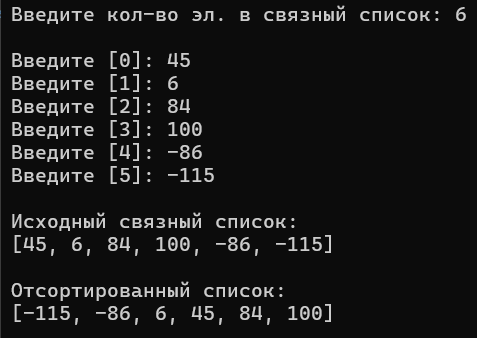
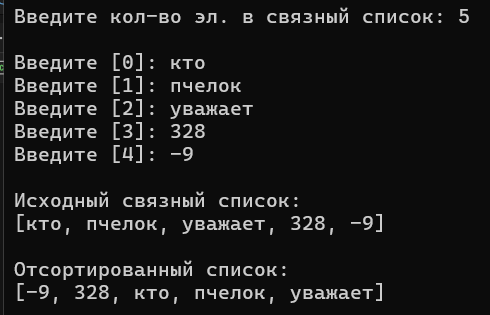
переделала методы для 1, 2 + отчет

Changed region(s): [[0.0, 0.0, 0.7925, 1.0], [0.499, 0.0, 0.9979, 0.0857]]

diff --git a/lab_4/part_1/Tasks15.cs b/lab_4/part_1/Tasks15.cs
@@ -1,94 +1,106 @@
 internal static class Tasks15
 {
-    public static bool ReplaceList
-        (List<int> List, List<int> List1, List<int> List2)
-    {
-        if (List1 == null || List1.Count == 0) return false;
 
-        int index = -1;
-        int j;
-        for (int i = 0; i <= List.Count - List1.Count; i++)
+    // должно возвращать список + должны быть не int  в списка а любые кроч переделать!!!!!!!!
+    public static List<T> ReplaceList<T>(
+    List<T> L, List<T> L1, List<T> L2)
+    {
+        if (L == null) return null;
+
+        List<T> rez = new List<T>(L);
+
+        if (L1 == null || L2 == null ||
+            L1.Count == 0 || L1.Count > rez.Count)
         {
-            j = 0;
-            while (j < List1.Count && List[i + j] == List1[j])
+            return rez;
+        }
+
+        EqualityComparer<T> comparer = EqualityComparer<T>.Default;
+
+        for (int i = 0; i <= rez.Count - L1.Count; i++)
+        {
+            bool isMatch = true;
+
+            for (int j = 0; j < L1.Count; j++)
             {
-                j++;
+                if (!object.Equals(rez[i + j], L1[j]))
+                {
+                    isMatch = false;
+                    break;
+                }
             }
 
-            if (j == List1.Count)
+            if (isMatch)
             {
-                index = i;
+                rez.RemoveRange(i, L1.Count);
+                rez.InsertRange(i, L2);
                 break;
             }
         }
 
-        if (index != -1)
-        {
-            List.RemoveRange(index, List1.Count);
-            List.InsertRange(index, List2);
-            return true;
-        }
-        return false;
+        return rez;
     }
 
 
-
-    public static List<int> ReadList(int count)
+    //
+    public static List<T> ReadList<T>(
+     int count, Func<string, T> readElement)
     {
-        
         if (count < 0)
         {
             throw new ArgumentException(
-                "Количнство элементов не может быть" +
+                "Количество элементов не может быть" +
                 " отрицательным!");
         }
-        
-        List<int> newList = new List<int>();
-        int element;
+
+        List<T> newList = new List<T>(count);
 
         for (int i = 0; i < count; i++)
         {
-            element = Checked.ReadInt($"Введите [{i}]: ");
+            T element = readElement($"Введите [{i}]: ");
             newList.Add(element);
         }
 
         return newList;
     }
 
-    public static LinkedList<int> ReadLinkedList()
+    //
+    public static LinkedList<T> ReadLinkedList<T>(
+    Func<string, T> readElement)
     {
-        LinkedList<int> newLinkedList = new LinkedList<int>();
+        LinkedList<T> newLinkedList = new LinkedList<T>();
 
-        uint size = Checked.ReadUint($"Введите кол-во эл. в " +
-            $"связный список: ");
+        uint size = Checked.ReadUint(
+            "Введите кол-во эл. в связный список: ");
         Console.WriteLine();
-        int element;
 
         for (int i = 0; i < size; i++)
         {
-            element = Checked.ReadInt($"Введите [{i}]: ");
+            T element = readElement($"Введите [{i}]: ");
             newLinkedList.AddLast(element);
         }
+
         return newLinkedList;
     }
 
 
 
-
-    public static void SortLinkedList(LinkedList<int> list)
+    public static void SortLinkedList<T>(LinkedList<T> list)
     {
         if (list == null || list.Count < 2) return;
 
-        LinkedList<int> sortedList = new LinkedList<int>();
+        LinkedList<T> sortedList = new LinkedList<T>();
+        Comparer<T> comparer = Comparer<T>.Default;
 
         while (list.Count > 0)
         {
-            int value = list.First.Value;
+            T value = list.First.Value;
             list.RemoveFirst();
 
-            LinkedListNode<int> node = sortedList.First;
+            LinkedListNode<T> node = sortedList.First;
 
-            while (node != null && node.Value < value)
+            while (node != null &&
+                   comparer.Compare(node.Value, value) < 0)
             {
                 node = node.Next;
             }
@@ -103,7 +115,7 @@
             }
         }
 
-        foreach (int value in sortedList)
+        foreach (T value in sortedList)
         {
             list.AddLast(value);
         }
@@ -142,7 +154,7 @@
     }
 
 
-
+    //
     public static string ReadTextFile(string filePath)
     {
         StreamReader reader = null;
@@ -182,7 +194,7 @@
             }
         }
     }
-
+    //
     private static string[] ExtractWords(string rawText)
     {
         char[] separators = { ' ', ',', '.', '!', '?', '-',
@@ -234,6 +246,7 @@
         Console.WriteLine();
     }
 
+    //
     public static void CreateTestFile(string filePath)
     {
         StreamWriter writer = null;

diff --git a/lab_4/part_1/Program.cs b/lab_4/part_1/Program.cs
@@ -2,52 +2,44 @@
 {
     static void Main(string[] args)
     {
-        // ЗАДАНИЕ 1
-
-        //bool Rez;
+        ////ЗАДАНИЕ 1
 
         //try
         //{
         //    int n = Checked.NaturalReadInt(
-        //    "Введите кол-во элементов в основной список: ");
+        //        "Введите кол-во элементов в основной список: ");
 
-        //    List<int> List = Tasks15.ReadList(n);
+        //    List<string> L = Tasks15.ReadList(n, Checked.ReadString);
+
         //    Console.WriteLine($"\nОсновной список L:\n" +
-        //        $"[{string.Join(", ", List)}]\n");
+        //        $"[{string.Join(", ", L)}]\n");
 
-        //    Console.WriteLine($"Какой фрагмент нужно заменить из L?");
+        //    Console.WriteLine("Какой фрагмент нужно заменить из L?");
 
         //    int n1 = Checked.NaturalReadInt(
-        //    "Введите кол-во элементов в фрагменте: ");
+        //        "Введите кол-во элементов в фрагменте: ");
 
-        //    if (n1 > List.Count)
+        //    if (n1 > L.Count)
         //    {
         //        throw new ArgumentException(
         //            "Размер фрагмента больше основного списка!" +
-        //            " Замена невозможна. ");
+        //            " Замена невозможна.");
         //    }
-        //    List<int> List1 = Tasks15.ReadList(n1);
+
+        //    List<string> L1 = Tasks15.ReadList(n1, Checked.ReadString);
         //    Console.WriteLine();
 
-        //    Console.WriteLine($"На что заменить фрагмент?");
+        //    Console.WriteLine("На что заменить фрагмент?");
         //    int n2 = Checked.NaturalReadInt(
         //        "Введите кол-во элементов в фрагмент для замены: ");
 
-        //    List<int> List2 = Tasks15.ReadList(n2);
+        //    List<string> L2 = Tasks15.ReadList(n2, Checked.ReadString);
         //    Console.WriteLine();
 
-        //    Rez = Tasks15.ReplaceList(List, List1, List2);
+        //    List<string> rez = Tasks15.ReplaceList(L, L1, L2);
 
-        //    Console.WriteLine("Итоговый список L:");
-        //    if (Rez)
-        //    {
-        //        Console.WriteLine($"[{string.Join(", ", List)}]");
-        //    }
-        //    else
-        //    {
-        //        Console.WriteLine($"[{string.Join(", ", List)}] (Фрагмент не найден, список не изменился)");
-        //    }
-
+        //    Console.WriteLine("Итоговый список:");
+        //    Console.WriteLine($"[{string.Join(", ", rez)}]");
         //}
         //catch (ArgumentException ex)
         //{
@@ -58,7 +50,9 @@
 
         //// ЗАДАНИЕ 2
 
-        //LinkedList<int> linkedList = Tasks15.ReadLinkedList();
+        //LinkedList<string> linkedList = 
+        //    Tasks15.ReadLinkedList(Checked.ReadString);
+
         //Console.WriteLine($"\nИсходный связный список:\n" +
         //    $"[{string.Join(", ", linkedList)}]\n");
 

diff --git a/lab_4/part_2/Program.cs b/lab_4/part_2/Program.cs
@@ -2,7 +2,7 @@
 {
     static void Main(string[] args)
     {
-        //// ЗАДАНИЕ 6
+        // ЗАДАНИЕ 6
 
         //uint rubles = Checked.ReadUint
         //    ("Введите количество рублей: ");
@@ -70,4 +70,3 @@
 
     }
 }
-

diff --git a/lab_4/Checked.cs b/lab_4/Checked.cs
@@ -129,6 +129,12 @@ internal static class Checked
         }
     }
 
+
+    public static string ReadString(string prompt)
+    {
+        Console.Write(prompt);
+        return Console.ReadLine();
+    }
 }
 
 

diff --git a/lab_4/part_2/Money.cs b/lab_4/part_2/Money.cs
@@ -1,6 +1,4 @@
-using System.Drawing;
-using System.Xml.Linq;
-
+
 internal class Money
 {
     private uint _rubles;

diff --git a/lab_4/README.md b/lab_4/README.md
@@ -11,7 +11,8 @@
 
 ### Алгоритм решения
 
-Создан публичный статический логический метод ReplaceList, принимающий три списка целых чисел: основной список List, искомый подсписок List1 и список для замены List2. Метод возвращает ложь, когда элементов в искомом списке нет или когда не нашлось нужной подстроки. Если же подстроку нашло, то элементы удаляются через RemoveRange и на их место с помщью InsertRange вставляются эл списка List2, а сам метод возвращает истину.
+Создан публичный статический обобщенный метод ReplaceList<T>, принимающий три списка произвольного типа T: основной список L, фрагмент списка L1 и список для замены L2. Если основной список не создан (null), метод возвращает null. В ином случае создается новый список rez на основе исходного. Если искомый подсписок пуст, не создан или длиннее основного списка, метод сразу возвращает rez без изменений.
+Далее создается стандартный компаратор EqualityComparer<T>.Default, чтобы можно было правильно сравнивать элементы любого переданного типа. Находим первое вхождение фрагмента L1. Если фрагмент нашелся, то на найденной позиции его элементы удаляются из rez через RemoveRange и на их место с помощью InsertRange вставляются элементы списка для замены L2. В конце работы метод возвращает новый список rez.
 
 ### Тестирование
 
@@ -28,7 +29,8 @@
 
 ### Алгоритм решения
 
-Создан публичный статический метод SortLinkedList, принимающий связный список целых чисел list. Метод сразу завершает работу, если список пуст или содержит меньше двух элементов. Сортировка выполняется вставками: в цикле while самый первый элемент исходного списка последовательно извлекается и удаляется из него. При этом с помощью внутреннего цикла while находится правильная позиция в новом связном списке sortedList для сортировки. В конце работы метода исходный список, который к этому моменту уже пуст, просто заполняется упорядоченными элементами из sortedList.
+Создан публичный статический обобщенный метод SortLinkedList<T>, принимающий связный список элементов произвольного типа T. Метод сразу завершает работу, если список пуст или содержит меньше двух элементов.
+Сортировка выполняется вставками: в цикле while самый первый элемент исходного списка последовательно извлекается и удаляется из него. При этом с помощью внутреннего цикла while и стандартного правила сравнения по умолчанию находится правильная позиция в новом связном списке sortedList для сохранения упорядоченности. В конце работы метода исходный список, который к этому моменту уже пуст, просто заполняется упорядоченными элементами из sortedList.
 
 ### Тестирование
 
